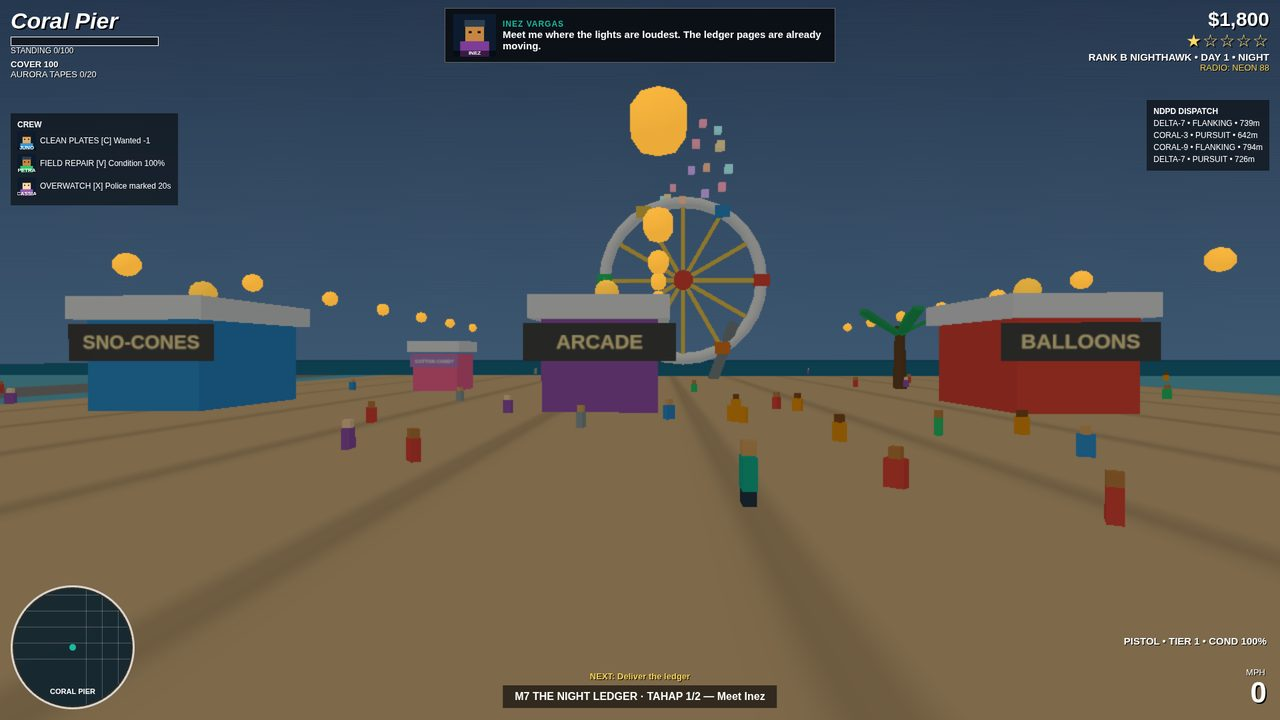
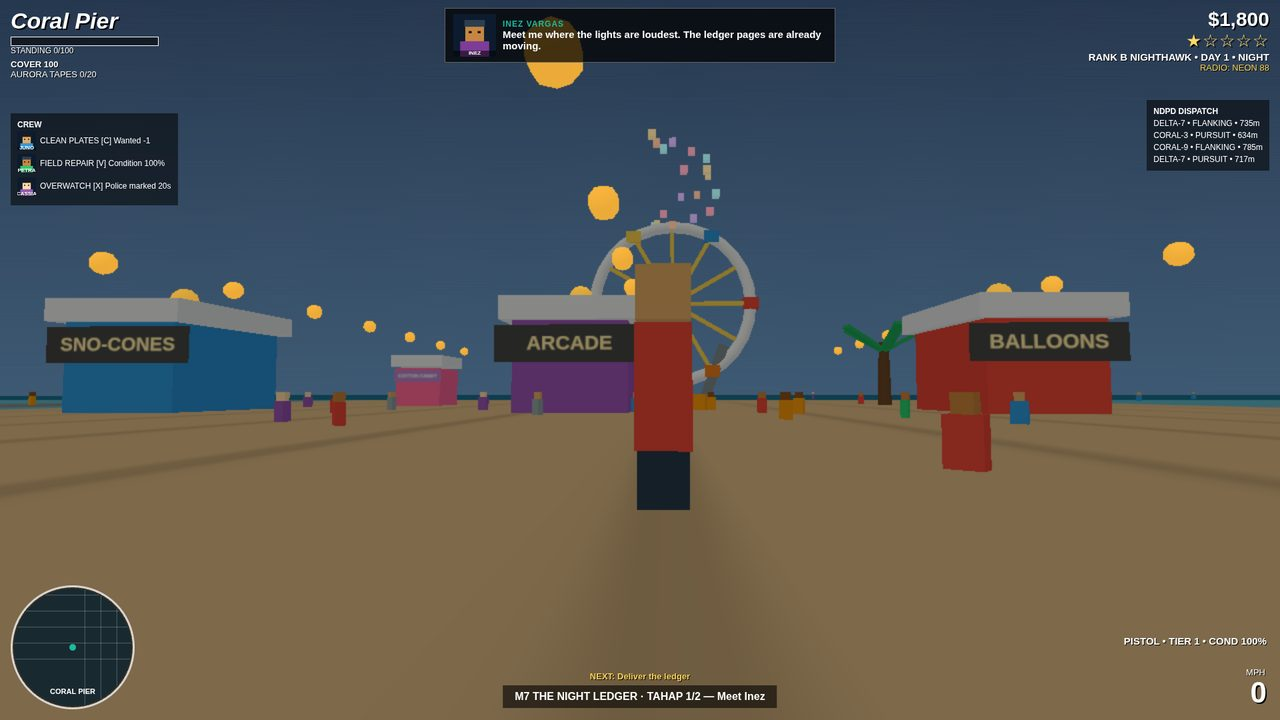
v19: Mara large in shots 2/3/4, boat reads as a boat in shot 4
- shots 2/3: camera close behind Mara at shoulder height, Mara
  x1.8, back view, whole, ~1/3 of frame; shot 3 camera 58 units
  east of the stall row so all three stalls read
- shot 4: depth composition — Mara large right foreground, boat
  large left mid-ground on open water, crane + bridge background;
  boat moved west (470,640) and scaled x1.5 in shot 4
- Mara: red jacket + blue backpack so she reads from behind
- boat hull warm amber so it stays yellow in the dusk shadow
  instead of reading grey against the dock
- sim: 273 checks (3 new shot-4 Mara placement checks)

diff --git a/game/src/shots.js b/game/src/shots.js
@@ -97,12 +97,16 @@ export function applyShot(n, world, traffic, police) {
   if (n === 2) {
     // Mara LARGE, whole, centre-frame, back view, on the shop
     // centreline so the DELTA ARMS sign and the rooftop billboard
-    // read centred above her; the camera sits just behind her and
-    // looks UP at the signs while the forecourt props frame the shot.
+    // read centred above her. She faces the shop (angle PI, back
+    // to the camera); the camera sits ~10 units behind her at
+    // shoulder height, looking up at the shop mid-height — at that
+    // distance her x1.8 scale fills about a third of the frame,
+    // whole from head to boots, with the sign and the billboard
+    // both still in frame above her.
     world.hour = 10;
     world.wanted.level = 0;
     world.player.onFoot = true;
-    world.player.x = SHOP.x; world.player.z = SHOP.z + 30; world.player.angle = 0;
+    world.player.x = SHOP.x; world.player.z = SHOP.z + 30; world.player.angle = Math.PI;
     world.money = 3200; world.rp = 340; world.rankCode = 'B';
     world.shopOpen = true;
     // Parked car on the road west of the shop, in frame, clear of
@@ -114,16 +118,21 @@ export function applyShot(n, world, traffic, police) {
       const p = traffic.peds[i + 1];
       p.x = pedSpots[i][0]; p.z = pedSpots[i][1]; p.angle = 2.6;
     }
-    return { camera: { x: SHOP.x, y: 5, z: SHOP.z + 45 }, look: { x: SHOP.x, y: 7, z: SHOP.z + 25 } };
+    return { camera: { x: SHOP.x, y: 1.8, z: SHOP.z + 40 }, look: { x: SHOP.x, y: 10, z: SHOP.z } };
   }
   if (n === 3) {
-    // Pier at night, camera centred on the middle stall so all three
-    // stalls (BALLOONS, ARCADE, SNO-CONES) sit in frame. Mara large
-    // in the foreground; the mission is M7 (Inez Vargas).
+    // Pier at night, camera close behind Mara so she is LARGE,
+    // whole and centre-frame, back view, facing the stalls (angle
+    // -PI/2, back to the camera). All three stalls (BALLOONS,
+    // ARCADE, SNO-CONES) sit in frame behind her, with the ferris
+    // wheel, fireworks, palm and string lights; the mission is M7
+    // (Inez Vargas). Mara stands 10 units east of the camera and
+    // the camera sits 58 units east of the stall row, so the row's
+    // 80-unit span fits the frame with all three signs readable.
     world.hour = 22;
     world.wanted.level = 1;
     world.player.onFoot = true;
-    world.player.x = -662; world.player.z = 432; world.player.angle = Math.PI / 2;
+    world.player.x = -652; world.player.z = 432; world.player.angle = -Math.PI / 2;
     world.money = 1800; world.rp = 480; world.rankCode = 'B';
     world.missions.current = 7; world.missions.objective = 0;
     // 10 NPCs on the pier deck around the stalls.
@@ -136,27 +145,32 @@ export function applyShot(n, world, traffic, police) {
       const c = traffic.cars[i];
       c.x = -640 + i * 8; c.z = 560 + i * 6; c.angle = 0; c.speed = 0;
     }
-    return { camera: { x: -642, y: 5, z: 435 }, look: { x: -740, y: 4, z: 438 } };
+    return { camera: { x: -642, y: 1.8, z: 432 }, look: { x: -720, y: 6, z: 435 } };
   }
   // Shot 4: port at dusk, crane load in frame, boat at the south dock.
-  // The camera sits EAST of the boat, over the water, looking
-  // west-northwest: the boat is large in the centre foreground
-  // (hull + teal cabin + wooden mast), Mara is on the dock edge
-  // ahead of it (scaled up in the scene sync so she reads), the
-  // hero car is side-on beyond her, the crane and the freeway
-  // bridge close the background. The mission is M8 (Orin Beck).
+  // Mara LARGE + boat LARGE + crane all fit by DEPTH: the camera
+  // sits low on the dock looking west-northwest, so Mara is large
+  // in the right foreground (back view, whole, on the dock edge),
+  // the boat is large in the left mid-ground on the water, and the
+  // crane and the freeway bridge close the background. The hero
+  // car is side-on in the mid-ground. The mission is M8 (Orin Beck).
   world.hour = 18;
   world.wanted.level = 2;
   // The hero car sits west of Mara so she does not block it.
-  world.car.x = 495; world.car.z = 590; world.car.angle = 2.2; world.car.speed = 0;
+  world.car.x = 520; world.car.z = 595; world.car.angle = 0.4; world.car.speed = 0;
   world.player.onFoot = true;
-  // Mara west of the boat's line so the boat does not hide her.
-  world.player.x = 530; world.player.z = 618; world.player.angle = Math.PI;
+  // Mara on the dock edge, facing northwest away from the camera
+  // (back view); the camera sits southeast of her.
+  world.player.x = 546; world.player.z = 603; world.player.angle = -3 * Math.PI / 4;
   world.money = 5100; world.rp = 900; world.rankCode = 'A';
   world.missions.current = 8; world.missions.objective = 0;
   // The boat turns to a three-quarter view so the hull, the teal
   // cabin and the mast all read instead of one long grey side.
-  world.boat.x = 555; world.boat.z = 635; world.boat.angle = Math.PI / 4;
+  // Moored further west along the shore so the whole hull, cabin
+  // and mast sit fully inside the frame, left of centre — and
+  // further out into open water, so blue water shows around it
+  // and the amber hull reads against the water, not the dock.
+  world.boat.x = 470; world.boat.z = 640; world.boat.angle = Math.PI / 4;
   startRace(world.race, 'port', 42);
   const carSpots = [[420, 540], [520, 560], [360, 580], [560, 520], [580, 590]];
   for (let i = 0; i < carSpots.length; i += 1) {
@@ -168,7 +182,7 @@ export function applyShot(n, world, traffic, police) {
     const p = traffic.peds[i];
     p.x = pedSpots[i][0]; p.z = pedSpots[i][1]; p.angle = 2.2;
   }
-  return { camera: { x: 600, y: 4, z: 640 }, look: { x: 480, y: 2, z: 590 } };
+  return { camera: { x: 556, y: 2, z: 610 }, look: { x: 460, y: 3, z: 582 } };
 }
 
 export function shotFile(n) {

diff --git a/game/src/scene.js b/game/src/scene.js
@@ -567,10 +567,13 @@ export function createScene() {
   }
 
   // Boat at the Marina south dock.
-  // Boat: warm cream hull and a wooden mast so it reads as a boat
-  // at dusk instead of a grey box with a black slab.
+  // Boat: saturated amber hull and a wooden mast so it reads as a
+  // boat at dusk instead of a grey box with a black slab — the
+  // warm cream tried before went grey in the dusk shadow and
+  // merged with the dock, so the hull is now a warm amber that
+  // stays yellow on its shadowed side.
   const boat = new THREE.Group();
-  const hull = box(10, 3, 22, 0xf5e6c8);
+  const hull = box(10, 3, 22, 0xffd76a);
   hull.position.y = 1.2;
   boat.add(hull);
   const cabin = box(6, 3, 8, 0x1abc9c);
@@ -623,11 +626,16 @@ export function createScene() {
     playerCar.add(strut);
   }
   scene.add(playerCar);
-  // Mara on foot.
+  // Mara on foot. Red jacket and a blue backpack on her back
+  // (local +x is her rear, same as the hero car's spoiler side),
+  // so she reads as Mara from behind at a glance.
   const mara = new THREE.Group();
   const mBody = box(0.9, 1.1, 0.5, MARA.jacket);
   mBody.position.y = 1.05;
   mara.add(mBody);
+  const mPack = box(0.3, 0.8, 0.45, 0x2e86c1);
+  mPack.position.set(0.55, 1.05, 0);
+  mara.add(mPack);
   const mHead = box(0.5, 0.5, 0.5, 0xe0ac69);
   mHead.position.y = 1.9;
   mara.add(mHead);
@@ -764,7 +772,10 @@ export function syncScene(s, world, traffic, police, hour) {
   s.mara.position.set(world.player.x, 0, world.player.z);
   s.mara.rotation.y = -world.player.angle + Math.PI / 2;
   s.mara.visible = world.player.onFoot || world.shotMode === 4;
-  s.mara.scale.setScalar(world.shotMode === 4 ? 2 : 1);
+  // Mara reads LARGE in the shot frames: x2 in shot 4, x1.8 in
+  // shots 2 and 3 (the camera sits ~10 units behind her there, so
+  // she fills about a third of the frame), x1 in normal play.
+  s.mara.scale.setScalar(world.shotMode === 4 ? 2 : (world.shotMode === 2 || world.shotMode === 3) ? 1.8 : 1);
 
   // Traffic.
   for (let i = 0; i < s.trafficMeshes.length; i += 1) {
@@ -841,7 +852,7 @@ export function syncScene(s, world, traffic, police, hour) {
   // boat (hull + cabin + mast) instead of a small box on a dock.
   s.props.boat.position.set(world.boat.x, 0.4, world.boat.z);
   s.props.boat.rotation.y = -world.boat.angle + Math.PI / 2;
-  s.props.boat.scale.setScalar(world.shotMode === 4 ? 1.2 : 1);
+  s.props.boat.scale.setScalar(world.shotMode === 4 ? 1.5 : 1);
   // Mission marker.
   const curMission = world.missions ? missionById(world.missions.current) : null;
   const obj = curMission ? curMission.points : null;

diff --git a/game/src/characters.js b/game/src/characters.js
@@ -4,7 +4,7 @@
 export const MARA = {
   name: 'Mara Solano',
   title: 'Ex-getaway driver',
-  jacket: 0x1abc9c, shirt: 0xecf0f1, pants: 0x2c3e50, hair: 0x1a1a1a,
+  jacket: 0xe74c3c, shirt: 0xecf0f1, pants: 0x2c3e50, hair: 0x1a1a1a,
   height: 1.75, speed: 6,
   story: 'Her vanished sister held proof of corruption: a mayor, a port businessman, the police.',
 };
